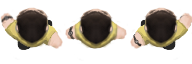
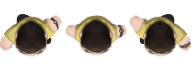
rotate spritesheets for correct orientation and add spritesheet anim to player

diff --git a/app/scripts/feierabend/player.js b/app/scripts/feierabend/player.js
@@ -6,6 +6,8 @@ define(['scripts/feierabend/movable.js',
     'scripts/feierabend/viewable.js'], function (movable, controllable, createViewable) {
     return function createPlayer(texture, game, pos) {
         var playerInstance;
+        var tilingSprite = new PIXI.extras.TilingSprite(texture, 50, 50);
+        var animationStep = 0;
 
 
         //init with texture
@@ -16,9 +18,15 @@ define(['scripts/feierabend/movable.js',
             enteredGridTile: [],
             move: function () {
                 this.moveSprite(this.getSprite());
+                this.animate();
             },
             changeDirectionByKeyCode: function (keyCode) {
                 this.changeSpriteDirectionByKeyCode(keyCode, this.getSprite());
+            },
+            animate: function animate() {
+                var animationFrame = animationStep++ % 3;
+
+                tilingSprite.tilePosition.x = animationFrame * 50;
             },
             unfollow: function (workmate) {
                 var workmateIndex = this.workmatesFollowing.indexOf(workmate);
@@ -42,6 +50,14 @@ define(['scripts/feierabend/movable.js',
         viewable.init();
 
         var composedPlayer = $.extend({}, Object.create(Player), movable(game), viewable, controllable);
+
+
+        tilingSprite.tileScale.x = 0.78;
+        tilingSprite.tileScale.y = 0.78;
+        tilingSprite.tilePosition.x = 100;
+        tilingSprite.tilePosition.y = 0;
+
+        composedPlayer.changeSprite(tilingSprite);
 
         return composedPlayer;
     };
